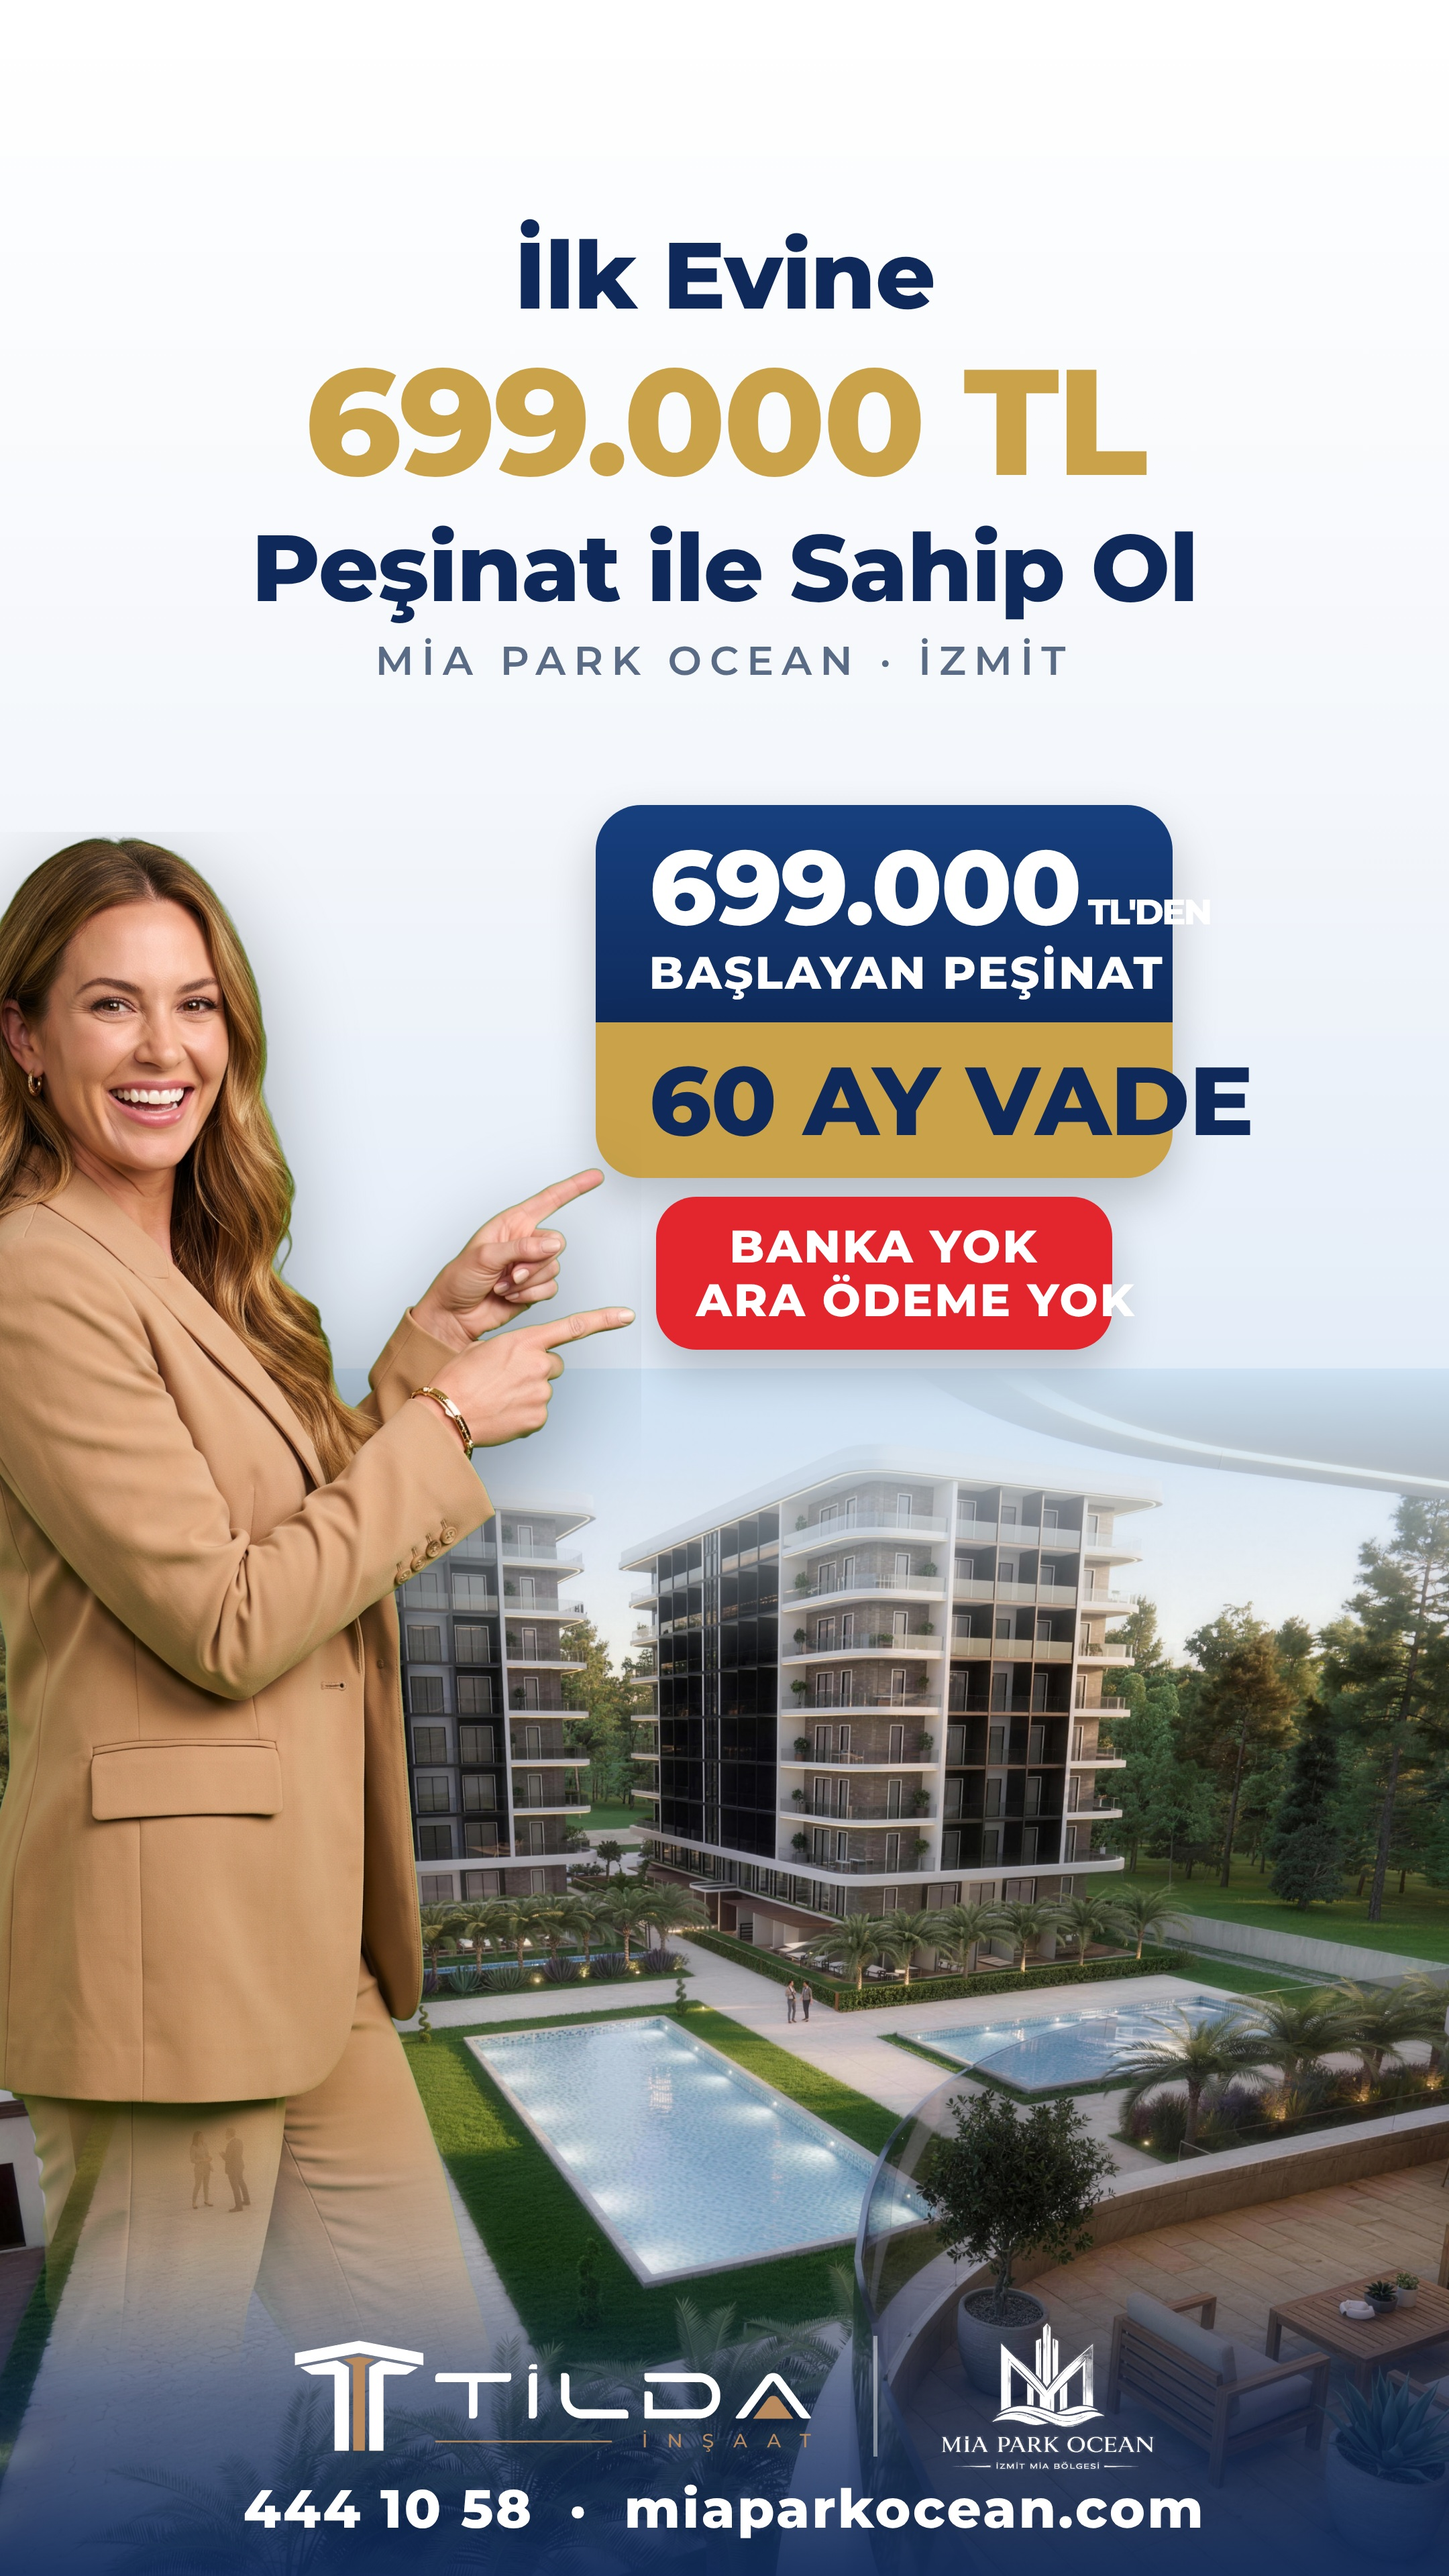
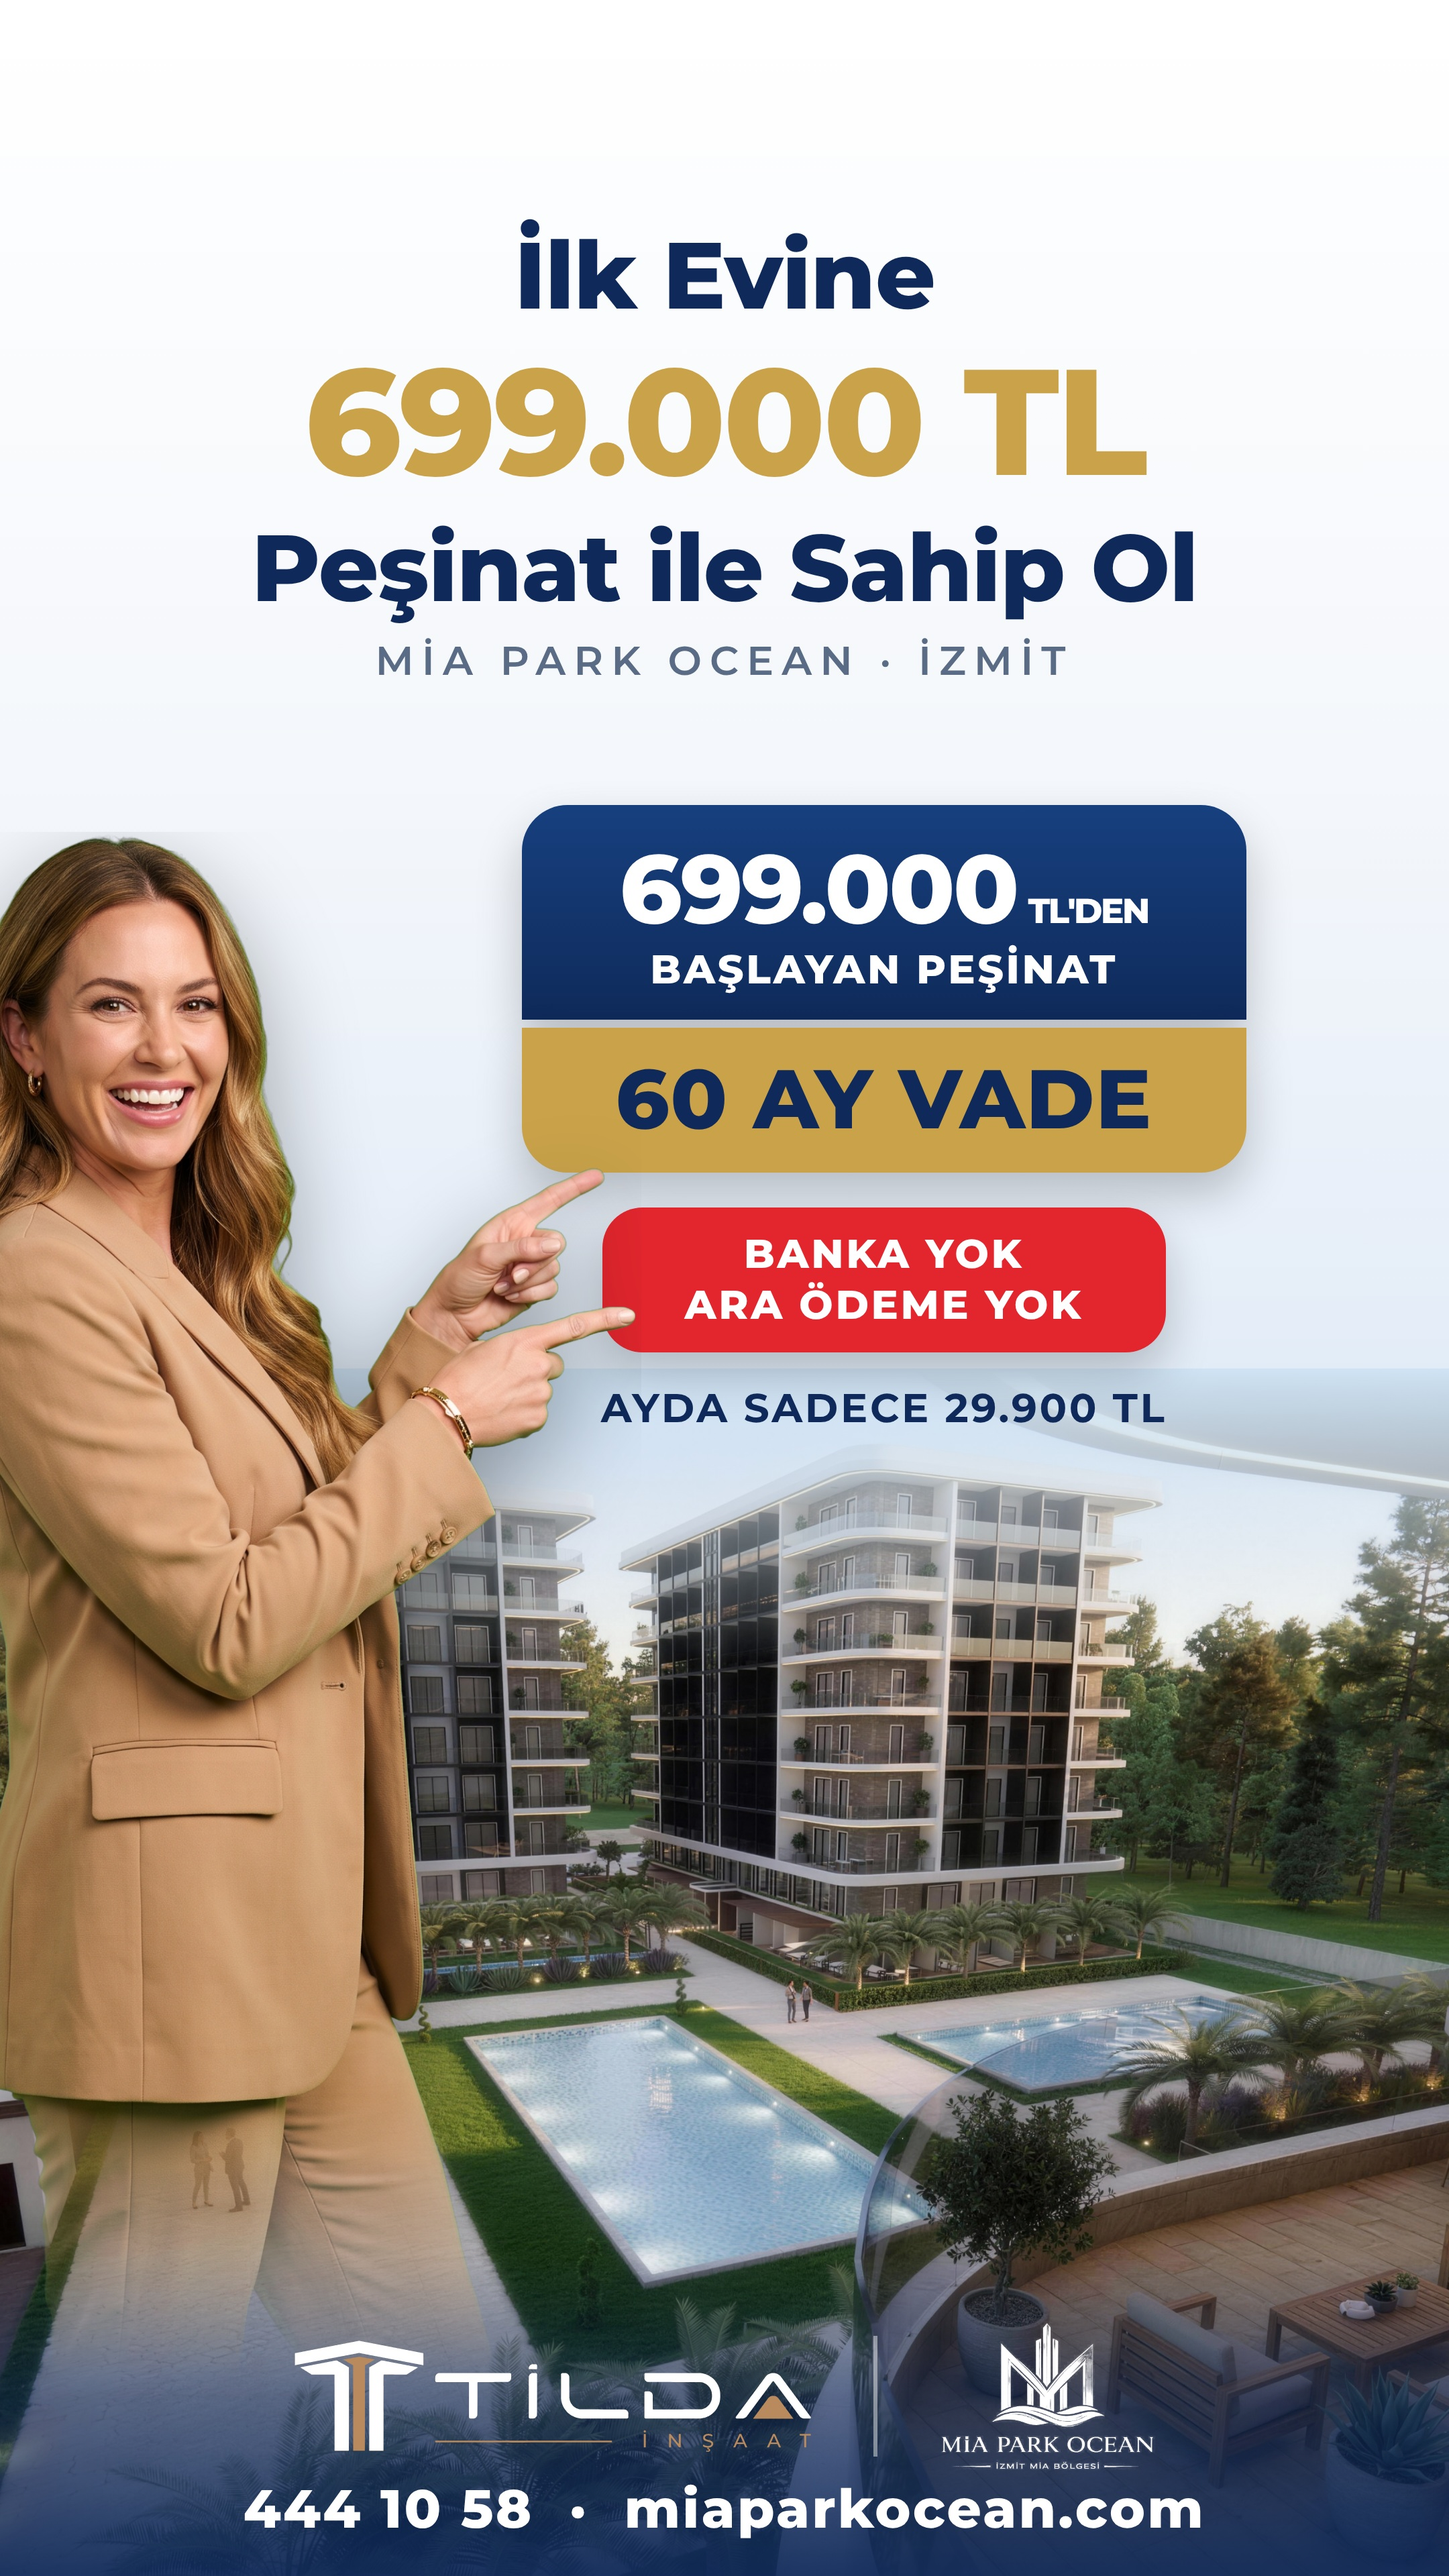
Story görseli: rozet yazıları blok içine sığdırıldı
Claude-Session: https://claude.ai/code/session_014vbWeo5uAXPs6zFw9SmWv2

Changed region(s): [[0.3412, 0.3125, 0.8685, 0.5625]]

diff --git a/scripts/build-story-pesinat.py b/scripts/build-story-pesinat.py
@@ -53,7 +53,7 @@ body {{ margin:0; width:{W}px; height:{H}px; overflow:hidden; position:relative;
 .tek {{ white-space:nowrap; line-height:1; }}
 .orta {{ left:0; width:{W}px; text-align:center; }}
 .rozet {{ left:61%; transform:translateX(-50%); text-align:center; font-weight:800; color:#fff;
-          padding:22px 40px; box-shadow:0 16px 34px rgba(0,0,0,.22); }}
+          box-shadow:0 16px 34px rgba(0,0,0,.22); }}
 </style></head><body>
   <div class="a" style="left:0;top:0;width:{W}px;height:{H}px;
        background:linear-gradient(180deg,#ffffff 0%,#f4f7fb 30%,#e6eef8 50%,#d7e7f6 62%,#cfe3f4 66%)"></div>
@@ -69,17 +69,18 @@ body {{ margin:0; width:{W}px; height:{H}px; overflow:hidden; position:relative;
   <div class="a tek orta" style="top:388px;font-size:70px;font-weight:800;color:{LAC};letter-spacing:-.01em">Peşinat ile Sahip Ol</div>
   <div class="a tek orta" style="top:478px;font-size:30px;font-weight:600;color:#5a6b85;letter-spacing:.2em">MİA PARK OCEAN · İZMİT</div>
 
-  <div class="a rozet" style="top:600px;width:430px;background:linear-gradient(180deg,{LAC2},{LAC});border-radius:34px 34px 0 0">
-    <div class="tek" style="font-size:78px;letter-spacing:-.02em">699.000<span style="font-size:.34em;margin-left:6px">TL'DEN</span></div>
-    <div class="tek" style="font-size:34px;margin-top:8px;letter-spacing:.04em">BAŞLAYAN PEŞİNAT</div>
+  <div class="a rozet" style="top:600px;width:540px;background:linear-gradient(180deg,{LAC2},{LAC});border-radius:34px 34px 0 0;padding:26px 0 22px">
+    <div class="tek" style="font-size:72px;letter-spacing:-.02em">699.000<span style="font-size:.36em;margin-left:8px">TL'DEN</span></div>
+    <div class="tek" style="font-size:30px;margin-top:10px;letter-spacing:.06em">BAŞLAYAN PEŞİNAT</div>
   </div>
-  <div class="a rozet" style="top:762px;width:430px;background:{ALTIN};color:{LAC};border-radius:0 0 34px 34px">
-    <div class="tek" style="font-size:72px;letter-spacing:-.01em">60 AY VADE</div>
+  <div class="a rozet" style="top:766px;width:540px;background:{ALTIN};color:{LAC};border-radius:0 0 34px 34px;padding:22px 0 24px">
+    <div class="tek" style="font-size:62px;letter-spacing:.01em">60 AY VADE</div>
   </div>
-  <div class="a rozet" style="top:892px;width:340px;background:{KIR};border-radius:30px;padding:20px 30px">
-    <div class="tek" style="font-size:34px;letter-spacing:.04em">BANKA YOK</div>
-    <div class="tek" style="font-size:34px;margin-top:6px;letter-spacing:.04em">ARA ÖDEME YOK</div>
+  <div class="a rozet" style="top:900px;width:420px;background:{KIR};border-radius:30px;padding:20px 0">
+    <div class="tek" style="font-size:30px;letter-spacing:.06em">BANKA YOK</div>
+    <div class="tek" style="font-size:30px;margin-top:8px;letter-spacing:.06em">ARA ÖDEME YOK</div>
   </div>
+  <div class="a tek" style="left:61%;transform:translateX(-50%);top:1035px;font-size:30px;font-weight:700;color:{LAC};letter-spacing:.06em">AYDA SADECE 29.900 TL</div>
 
   <img class="a" src="{F('signage-source','aile','sunucu2-kesik.png')}" style="left:-70px;top:620px;width:{s_w}px;height:{s_h}px;filter:drop-shadow(0 24px 34px rgba(0,0,0,.35));-webkit-mask-image:linear-gradient(180deg,#000 82%,transparent 100%);mask-image:linear-gradient(180deg,#000 82%,transparent 100%)">
 
